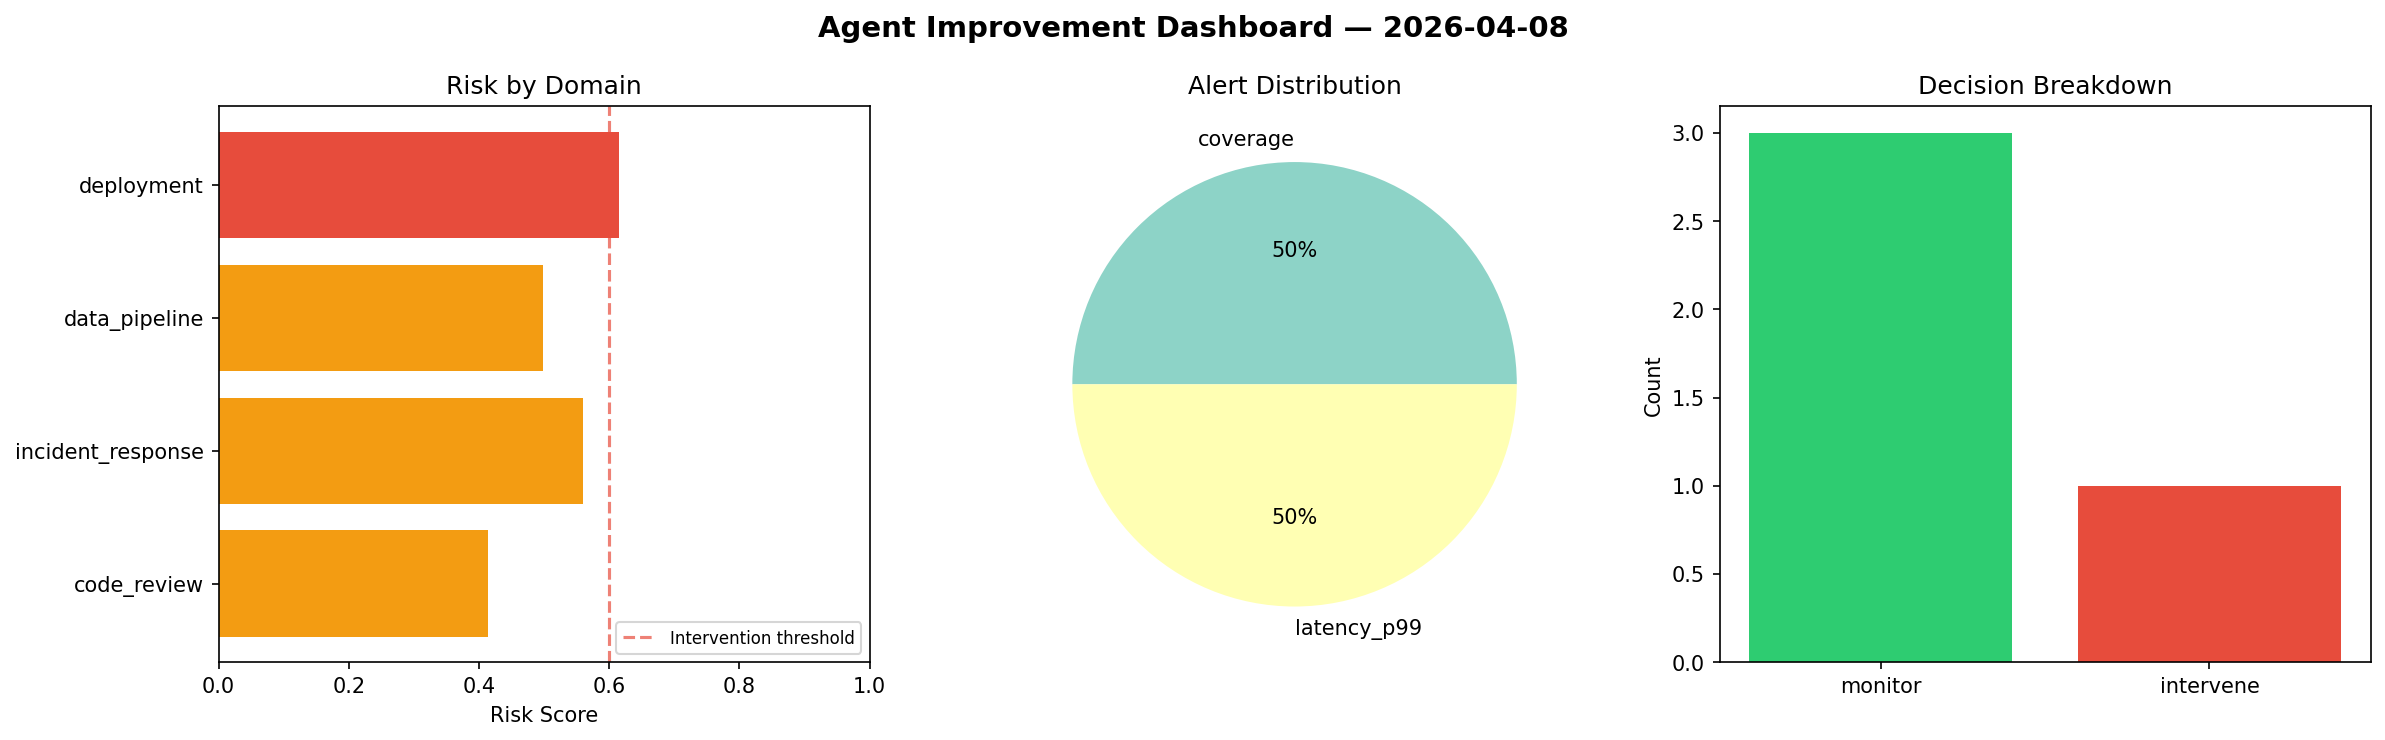
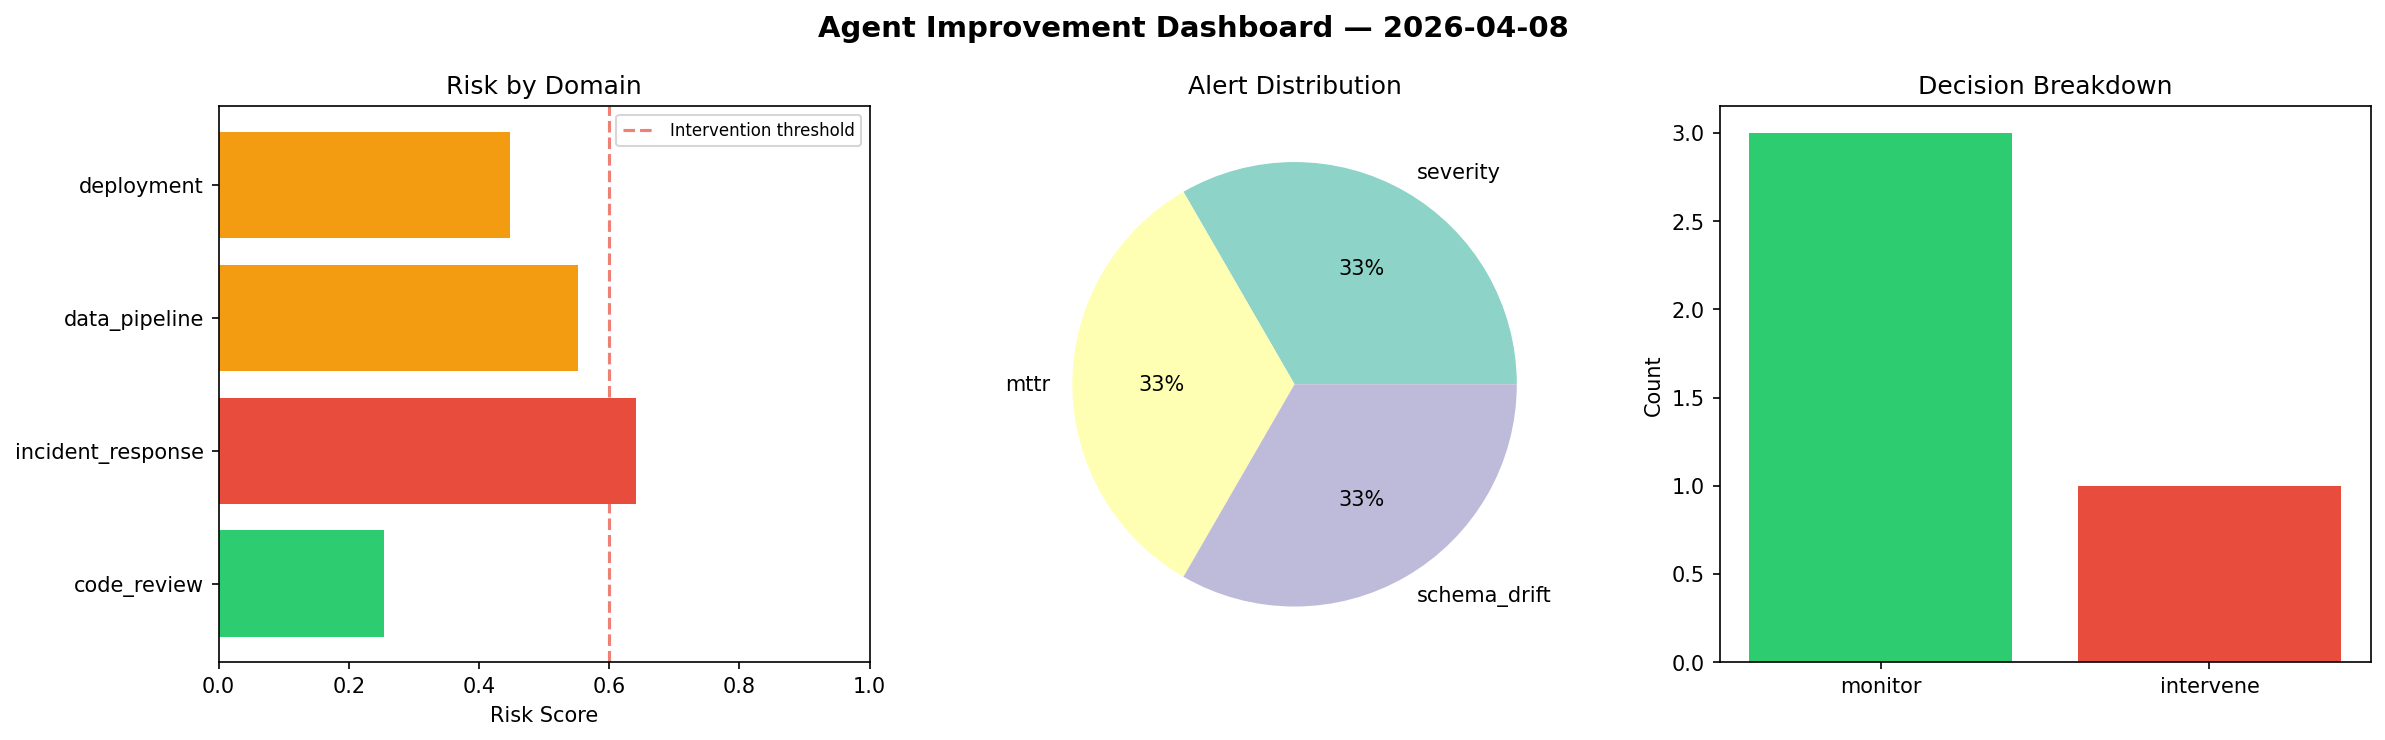
agent-improvement: daily cycle 2026-04-08T09:18

diff --git a/logs/2026-04-08.md b/logs/2026-04-08.md
@@ -1,6 +1,6 @@
 # Agent Improvement Report — 2026-04-08
 
-**Cycle ID:** `20263b7f` | **Avg Risk:** 0.5214 | **Interventions:** 1/4
+**Cycle ID:** `47969a46` | **Avg Risk:** 0.474 | **Interventions:** 1/4
 
 ![Dashboard](2026-04-08_dashboard.png)
 
@@ -10,18 +10,18 @@
 
 | Domain | Risk Score | Decision | Alerts |
 |--------|-----------|----------|--------|
-| code_review | 0.4134 | monitor | coverage |
-| incident_response | 0.5592 | monitor | none |
-| data_pipeline | 0.4977 | monitor | none |
-| deployment | 0.6155 | intervene | latency_p99 |
+| code_review | 0.2548 | monitor | none |
+| incident_response | 0.6407 | intervene | severity, mttr |
+| data_pipeline | 0.5527 | monitor | schema_drift |
+| deployment | 0.4477 | monitor | none |
 
 ## Delta vs Yesterday
 
 | Domain | Today | Yesterday | Change |
 |--------|-------|-----------|--------|
-| code_review | 0.4134 | 0.5317 | 📉 -22.2% |
-| incident_response | 0.5592 | 0.6645 | 📉 -15.8% |
-| data_pipeline | 0.4977 | 0.8096 | 📉 -38.5% |
-| deployment | 0.6155 | 0.6563 | 📉 -6.2% |
+| code_review | 0.2548 | 0.5317 | 📉 -52.1% |
+| incident_response | 0.6407 | 0.6645 | 📉 -3.6% |
+| data_pipeline | 0.5527 | 0.8096 | 📉 -31.7% |
+| deployment | 0.4477 | 0.6563 | 📉 -31.8% |
 
 **Refinement:** `{'adjustment': 'tighten_thresholds', 'trend': 'degrading', 'window': 4}`
